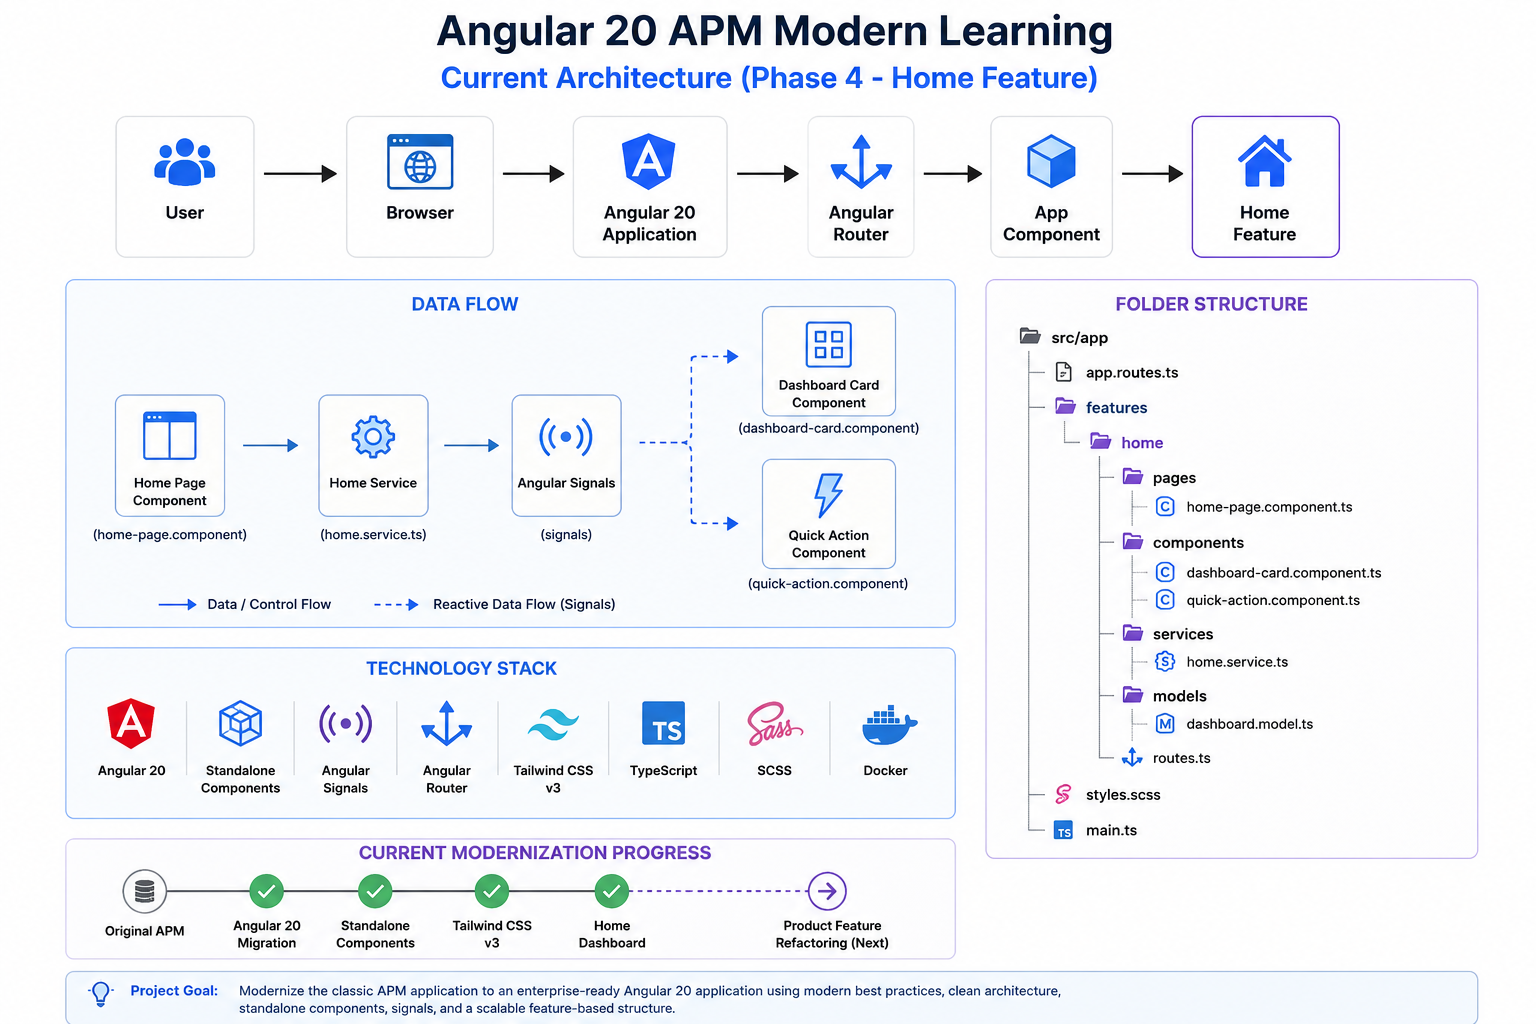
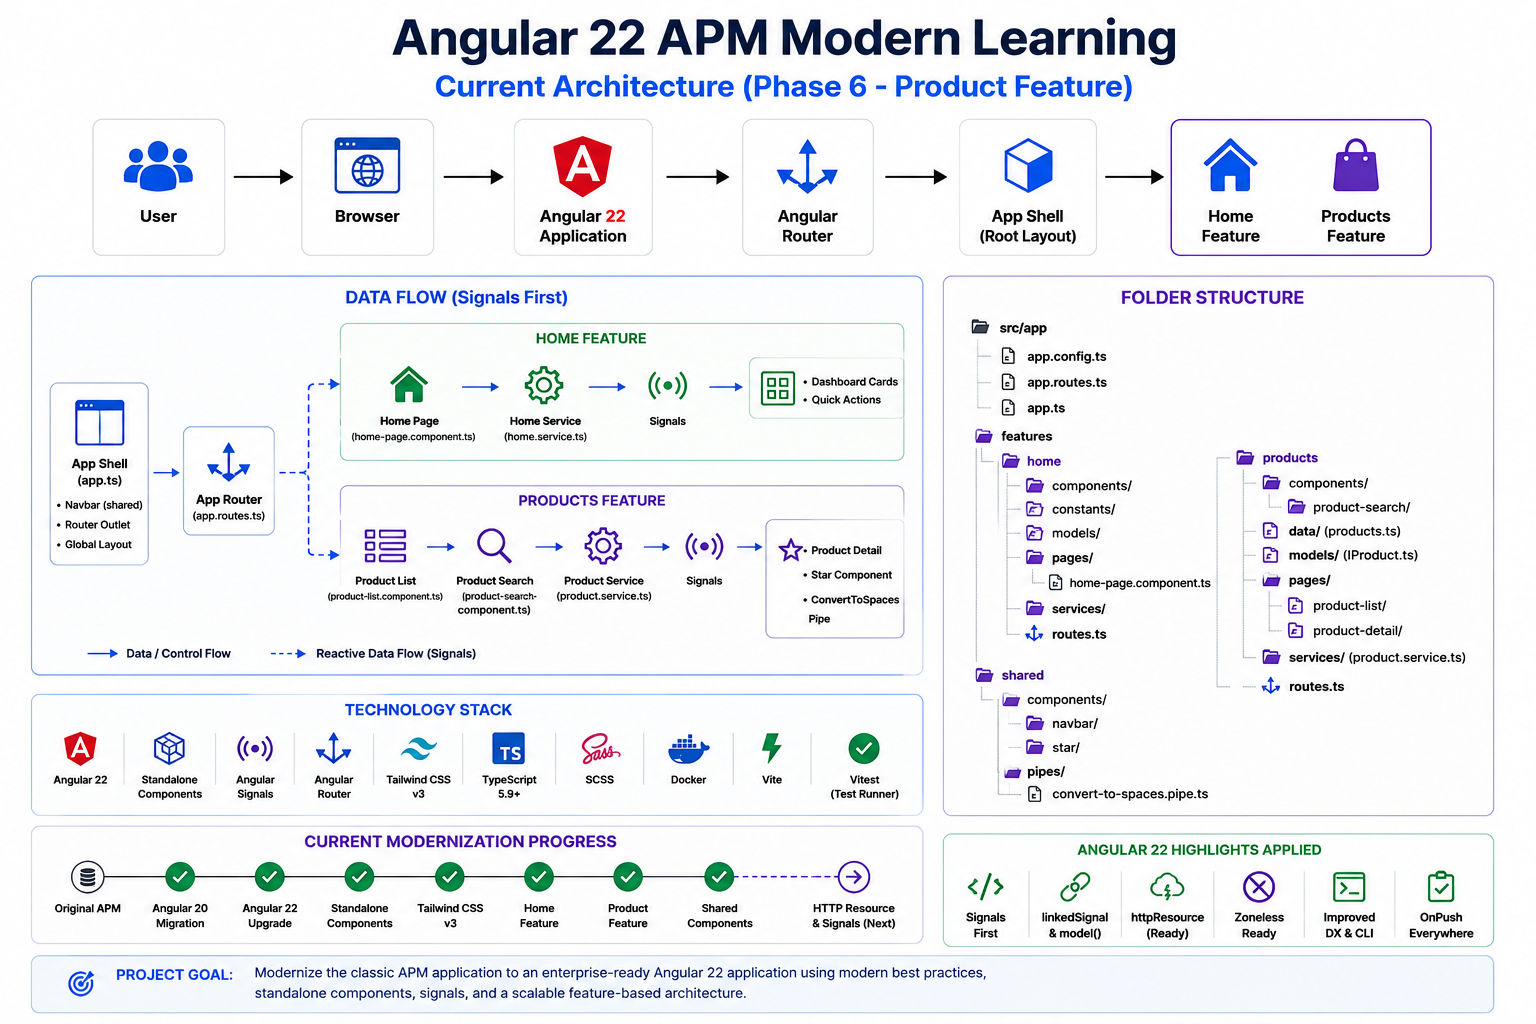
feat: implement core feature modules, standalone components, and architectural documentation for the APM application

Changed region(s): [[0.0312, 0.0938, 0.9688, 1.0], [0.25, 0.0, 0.7812, 0.0938]]

diff --git a/src/app/features/products/components/product-search/product-search.component.ts b/src/app/features/products/components/product-search/product-search.component.ts
@@ -1,9 +1,8 @@
-import { Component, input, output, ChangeDetectionStrategy } from '@angular/core';
+import { Component, input, output } from '@angular/core';
 
 @Component({
   selector: 'app-product-search',
   standalone: true,
-  changeDetection: ChangeDetectionStrategy.Eager,
   template: `
     <div class="mb-6 max-w-md">
       <label for="product-search" class="mb-2 block text-sm font-medium text-gray-700">

diff --git a/src/app/app.ts b/src/app/app.ts
@@ -5,7 +5,6 @@ import { Navbar } from './shared/components/navbar/navbar';
 @Component({
   selector: 'app-root',
   imports: [RouterOutlet, Navbar],
-  changeDetection: ChangeDetectionStrategy.Eager,
   template: `
   <div class="min-h-screen bg-slate-100">
     <app-navbar />

diff --git a/src/app/features/home/components/dashboard-card/dashboard-card.ts b/src/app/features/home/components/dashboard-card/dashboard-card.ts
@@ -3,7 +3,6 @@ import { Component, input, ChangeDetectionStrategy } from '@angular/core';
 @Component({
   selector: 'app-dashboard-card',
   imports: [],
-  changeDetection: ChangeDetectionStrategy.Eager,
   template:`
   <div
     class="

diff --git a/src/app/features/home/components/quick-action/quick-action.ts b/src/app/features/home/components/quick-action/quick-action.ts
@@ -4,7 +4,6 @@ import { RouterLink } from '@angular/router';
 @Component({
   selector: 'app-quick-action',
   imports: [RouterLink],
-  changeDetection: ChangeDetectionStrategy.Eager,
   template: `
   <a
     [routerLink]="route()"

diff --git a/src/app/features/home/pages/home-page/home-page.ts b/src/app/features/home/pages/home-page/home-page.ts
@@ -8,7 +8,6 @@ import { PAGE_SUBTITLE, PAGE_TITLE } from '../../constants/home.constants';
 @Component({
   selector: 'app-home-page',
   imports: [DashboardCard, QuickAction],
-  changeDetection: ChangeDetectionStrategy.Eager,
   templateUrl: './home-page.html',
 })
 export class HomePage {

diff --git a/src/app/features/products/pages/product-detail/product-detail.component.ts b/src/app/features/products/pages/product-detail/product-detail.component.ts
@@ -8,7 +8,6 @@ import { CommonModule } from '@angular/common';
   selector: 'app-product-detail',
   standalone: true,
   imports: [CommonModule],
-  changeDetection: ChangeDetectionStrategy.Eager,
   templateUrl: './product-detail.component.html',
 })
 export class ProductDetailComponent implements OnInit {

diff --git a/src/app/features/products/pages/product-list/product-list.component.ts b/src/app/features/products/pages/product-list/product-list.component.ts
@@ -10,7 +10,6 @@ import { ConvertToSpacesPipe } from '../../../../shared/pipes/convert-to-spaces.
   selector: 'app-product-list',
   standalone: true,
   imports: [RouterLink, CommonModule, ProductSearchComponent, StarComponent, ConvertToSpacesPipe],
-  changeDetection: ChangeDetectionStrategy.Eager,
   templateUrl: './product-list.component.html',
 })
 export class ProductListComponent {

diff --git a/src/app/shared/components/navbar/navbar.ts b/src/app/shared/components/navbar/navbar.ts
@@ -5,7 +5,6 @@ import { RouterLink, RouterLinkActive } from '@angular/router';
   selector: 'app-navbar',
   standalone: true,
   imports: [RouterLink, RouterLinkActive],
-  changeDetection: ChangeDetectionStrategy.Eager,
   template: `
     <nav class="bg-white shadow px-6 py-4">
       <ul class="flex gap-6">

diff --git a/src/app/shared/components/star/star.component.ts b/src/app/shared/components/star/star.component.ts
@@ -13,7 +13,6 @@ import { Component, EventEmitter, Input, OnChanges, Output, ChangeDetectionStrat
       </div>
     </div>
   `,
-  changeDetection: ChangeDetectionStrategy.Eager,
   styles: [
     `
       .crop {

diff --git a/docs/architecture/current-architecture.md b/docs/architecture/current-architecture.md
@@ -1,8 +1,8 @@
 # Current Architecture Design
 
-This document details the active technical state of the **Acme Product Management (APM) Modern Learning** application, built using Angular 20.
+This document details the active technical state of the **Acme Product Management (APM) Modern Learning** application, built using Angular 22.
 
-![Angular 20 APM Modern Learning Enterprise Architecture Diagram](../images/current_architecture_diagram.png)
+![Angular 22 APM Modern Learning Enterprise Architecture Diagram](../images/current_architecture_diagram.png)
 
 ---
 